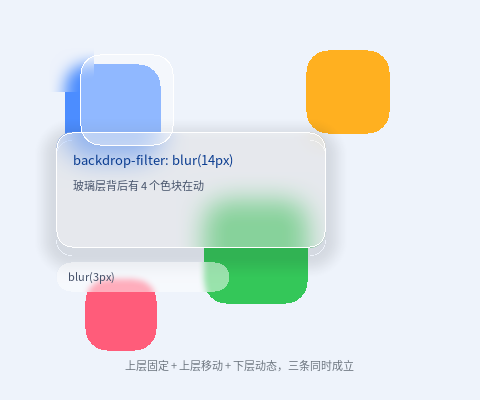
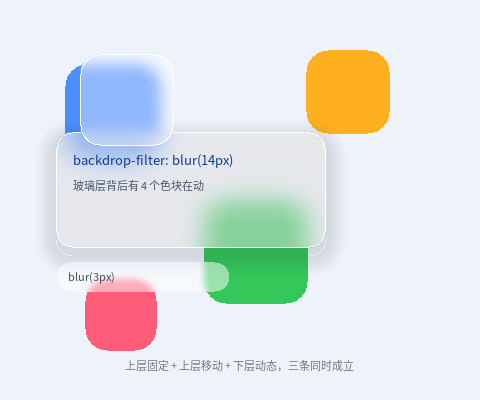
修：毛玻璃的采样区没跟着 transform 走（两条后端都错）
现象：带 `transform: translate()` 的玻璃层，糊的是它**没移动之前**那块地方，
画面里模糊内容和背后的物体对不上（example_15 的 #puck 最明显）。

根因两处，CPU 与 GL 各一：

- CPU `cpu_backdrop_blur`：`sx(self, elem_rect(self, rect))` —— `sx()` 内部
  已经调过一次 `elem_rect()`，等于把 transform: scale 算了两遍；而且这两个
  函数都只处理 elem scale 与 dpr，**绘制期平移（offset_x_fx/offset_y_fx）**
  一次都没算进去。
- GL `gl_backdrop_blur_round`：同样重复调用 `elem_rect_gl`，并同样漏掉
  绘制期平移（别的绘制入口是在 emit 顶点时加 `off_x_of/off_y_of`，
  毛玻璃自己 blit 一小块，得自己加）。

改法：
- CPU 新增 `dev_rect_of()` = `ql_rect_from_fx(sxf(self, elem_rect(self, rect)))`
  —— `elem_rect` 管 scale、`sxf` 管平移与 dpr，各一次。
- GL 用 `gsx(g, rect)`（含 scale+dpr）+ 手动补 `off_x_of/off_y_of`。

测试：test_blur 新增第 4 节"带 transform 的玻璃"——白条在 0..40 与 80..120，
玻璃从 20..80 平移到 60..100，断言玻璃内（62..98）有中间色、原位置（42..58）
一个都没有，CPU 与 GPU 各一遍。这条断言在修复前会失败（正好反过来）。

顺带：更新 example_15 的截图与文档（QLUI API 手册、CSS3 覆盖与裁剪、
15_backdrop 教程）里"跟着 transform 走"的说明。

Changed region(s): [[0.125, 0.12, 0.375, 0.33]]

diff --git a/doc/html/manual/ui/QLUI API手册.html b/doc/html/manual/ui/QLUI API手册.html
@@ -1231,7 +1231,9 @@ z-index 相同则保持文档顺序（稳定）。</p>
 <li><strong>自己的 <code>background-color</code> 要带 alpha</strong>，否则糊完又被不透明底色盖住，看不出效果；</li>
 <li><strong>只影响自己的矩形</strong>（含 <code>border-radius</code> 的圆角），不会把外面的颜色吸进来，
    也不会把模糊漏到圆角缺口外面（见下面的"圆角裁剪"）；</li>
-<li>它跟着 <code>transform</code> 一起走——毛玻璃卡片滑动时，糊的是它当前盖住的那块内容；</li>
+<li>它跟着 <code>transform: translate()</code> 一起走——毛玻璃卡片滑动时，糊的是它<strong>现在</strong>
+   盖住的那块内容（两条后端都在采样矩形里补了绘制期平移；早先漏了这一步，
+   表现是"移动后的玻璃糊的是它原来那块地方"）；</li>
 <li><strong>下层在动就跟着动</strong>：模糊的是"这一帧刚画好的像素"，所以 <code>@keyframes</code> 驱动的
    背景变化会被实时反映，不需要额外机制（例程 <code>15_backdrop</code> 演示这一点）；</li>
 <li>每帧多一次 draw call；CPU 后端代价约等于"半次整屏重绘"（见 <code>bench.md</code>）。</li>

diff --git a/doc/html/manual/ui/CSS3覆盖与裁剪.html b/doc/html/manual/ui/CSS3覆盖与裁剪.html
@@ -1771,7 +1771,7 @@ main img.shot { max-width: 100%; }
 <td><code>backdrop-filter: blur()</code></td>
 <td>✅</td>
 <td>R</td>
-<td>毛玻璃；读"已画好的内容"就地模糊，有独立小着色器；结果裁进 <code>border-radius</code>；下层动画实时跟随</td>
+<td>毛玻璃；读"已画好的内容"就地模糊，有独立小着色器；结果裁进 <code>border-radius</code>；自己带 <code>transform: translate</code> 时采样区跟着走；下层动画实时跟随</td>
 </tr>
 <tr>
 <td><code>filter: blur()</code></td>

diff --git a/doc/html/tutorial/15_backdrop.html b/doc/html/tutorial/15_backdrop.html
@@ -246,7 +246,7 @@ main img.shot { max-width: 100%; }
 </tr>
 <tr>
 <td><code>#puck</code>（自己也在动）</td>
-<td>模糊区域跟着玻璃层自己走</td>
+<td>模糊区域跟着玻璃层自己走（<code>transform</code> 平移会算进采样矩形）</td>
 </tr>
 <tr>
 <td><code>#pill</code>（<code>blur(3px)</code>）</td>

diff --git a/test/web/test_blur.c b/test/web/test_blur.c
@@ -7,7 +7,9 @@
  *   2. **硬边被糊成渐变**：模糊区域里出现一长串"中间色"像素；
  *   3. **区域外一个像素都不动**（模糊只在元素自己的矩形里发生）；
  *   4. 元素自己的背景照常叠在模糊结果之上（半透明"玻璃"）；
- *   5. GPU 必须和 CPU 一样真的糊（用同一组性质断言，不做逐像素比较）。
+ *   5. GPU 必须和 CPU 一样真的糊（用同一组性质断言，不做逐像素比较）；
+ *   6. **跟随 transform**：玻璃自己平移之后，糊的是它现在盖住的那块内容，
+ *      而不是它"没动之前"那块地方（这条曾经是错的，两条后端都错）。
  */
 #include <stdio.h>
 #include <stdlib.h>
@@ -156,5 +158,95 @@ QL_TEST_BEGIN("test_blur")
 #endif
 
     ql_ui_free(ui);
+
+    /*
+     * ---------- 4. 带 transform 的玻璃：糊的位置必须跟着元素走 ----------
+     *
+     * 场景：白条 0..40 与 80..120，中间是深色；玻璃在 20..80，动画平移 +40px
+     * 之后落在 60..100。
+     *
+     *   正确：玻璃里只有 x=80 那条硬边被糊开 → 62..98 有中间色，42..58 没有；
+     *   错误（按未平移的 20..80 采样）：玻璃里糊的是 x=40 那条边 → 正好反过来。
+     */
+    {
+        const char *html = "<div id=r><div id=w></div><div id=w2></div>"
+                           "<div id=g></div></div>";
+        const char *css =
+            "#r { width: 120px; height: 80px; background-color: #101010 }"
+            "#w { position: absolute; left: 0px; top: 0px; width: 40px;"
+            "     height: 80px; background-color: #FFFFFF }"
+            "#w2 { position: absolute; left: 80px; top: 0px; width: 40px;"
+            "      height: 80px; background-color: #FFFFFF }"
+            "#g { position: absolute; left: 20px; top: 20px; width: 60px;"
+            "     height: 40px; background-color: rgba(255,255,255,0.08);"
+            "     backdrop-filter: blur(6px);"
+            "     animation: mv 1000ms linear infinite alternate }"
+            "@keyframes mv { from { transform: translate(0px, 0px); }"
+            "                to   { transform: translate(40px, 0px); } }";
+        QLUIDoc *doc = ql_ui_load_text(html, css);
+        QL_CHECK(doc != NULL);
+        if (doc != NULL) {
+            QLUIRoot *tu = ql_ui_build(doc);
+            QL_CHECK(tu != NULL);
+            if (tu != NULL) {
+                ql_ui_layout(tu, W, H);
+                (void)ql_ui_anim_tick(tu, 0);       /* 第一帧建立动画起点 */
+                (void)ql_ui_anim_tick(tu, 1000);    /* 走完：平移 40px */
+
+                QLUINodeRT *gn = NULL;
+                for (uint16_t i = 0; i < tu->node_count; i++)
+                    if (ql_ui_node_style(&tu->nodes[i])->backdrop_blur > 0)
+                        gn = &tu->nodes[i];
+                QL_CHECK(gn != NULL);
+                if (gn != NULL) {
+                    QL_CHECK_EQ(ql_ui_node_style(gn)->tf_x, 40);
+
+                    const int my = 40;
+                    QLDispDriver *disp = ql_disp_mem_create(W, H, QL_COLOR_ARGB8888);
+                    QLCanvas canvas;
+                    QL_CHECK_EQ(ql_canvas_from_disp(&canvas, disp), QL_OK);
+                    ql_disp_mem_clear(disp, ROOT_BG);
+                    ql_ui_render_canvas(tu, &canvas);
+
+                    /* 平移后的玻璃占 60..100：里面只有 x=80 那条边 */
+                    const int inside = ramp_count_cpu(disp, my, 62, 98);
+                    const int left = ramp_count_cpu(disp, my, 42, 58);
+                    printf("  平移后 CPU：玻璃内中间色 %d，原位置(42..58) %d\n",
+                           inside, left);
+                    QL_CHECK(inside >= 6);
+                    QL_CHECK_EQ(left, 0);
+
+#if defined(QLGL_ENABLE_GL)
+                    QLGfxGL *gfx = ql_gfx_gl_create("blur-mv", W, H,
+                                                    QL_GFX_GL_OFFSCREEN);
+                    if (gfx == NULL) {
+                        printf("  [SKIP] GL：无法创建上下文\n");
+                    } else {
+                        ql_gfx_gl_begin(gfx, ROOT_BG);
+                        ql_ui_render(tu, ql_gfx_gl_draw(gfx));
+                        ql_gfx_gl_end(gfx);
+                        ql_gfx_gl_finish(gfx);
+                        uint8_t *rgba = (uint8_t *)ql_mem_calloc(1, (size_t)W * H * 4u);
+                        QL_CHECK(rgba != NULL);
+                        if (rgba != NULL) {
+                            QL_CHECK_EQ(ql_gfx_gl_read_pixels(gfx, rgba, W * 4), QL_OK);
+                            const int gin = ramp_count_rgba(rgba, W * 4, my, 62, 98);
+                            const int gleft = ramp_count_rgba(rgba, W * 4, my, 42, 58);
+                            printf("  平移后 GPU：玻璃内中间色 %d，原位置(42..58) %d\n",
+                                   gin, gleft);
+                            QL_CHECK(gin >= 6);
+                            QL_CHECK_EQ(gleft, 0);
+                            ql_mem_free(rgba);
+                        }
+                        ql_gfx_gl_destroy(gfx);
+                    }
+#endif
+                    ql_disp_mem_destroy(disp);
+                }
+                ql_ui_free(tu);
+            }
+            ql_ui_doc_free(doc);
+        }
+    }
 
 QL_TEST_END()

diff --git a/src/draw/qldraw2d.c b/src/draw/qldraw2d.c
@@ -381,6 +381,19 @@ static QLRect shift_rect_rounded(QLDraw2D *self, QLRect r)
     return r;
 }
 
+/*
+ * CSS px 矩形 → 设备像素整数矩形：`elem_rect` 处理 transform: scale，
+ * `sxf` 处理**绘制期平移**（transform: translate）与 dpr。
+ *
+ * 顺序不能反、也不能重复：`sx()` 里已经含一次 elem_rect，早先写成
+ * `sx(self, elem_rect(self, rect))` 是**缩放算了两遍**，而且两份都没算平移 ——
+ * 表现就是"带 transform 的毛玻璃糊的是它没移动之前那块地方"。
+ */
+static QLRect dev_rect_of(QLDraw2D *self, QLRect r)
+{
+    return ql_rect_from_fx(sxf(self, elem_rect(self, r)));
+}
+
 /* 毛玻璃：把设备像素区域里已有的内容就地模糊（CPU 侧的"背后"就是画布本身） */
 static void cpu_backdrop_blur(QLDraw2D *self, QLRect rect, int sigma)
 {
@@ -388,7 +401,7 @@ static void cpu_backdrop_blur(QLDraw2D *self, QLRect rect, int sigma)
     if (ctx->canvas == NULL)
         return;
 
-    QLRect dev = sx(self, elem_rect(self, rect));
+    QLRect dev = dev_rect_of(self, rect);
     ql_coord_t fx = (self->scale_fx > 0) ? self->scale_fx : QL_SCALE_ONE;
     int r = (int)(((int64_t)sigma * fx) / QL_SCALE_ONE);
     if (r < 1)
@@ -404,7 +417,7 @@ static void cpu_backdrop_blur_round(QLDraw2D *self, QLRect rect, int sigma,
     if (ctx->canvas == NULL)
         return;
 
-    QLRect dev = sx(self, elem_rect(self, rect));
+    QLRect dev = dev_rect_of(self, rect);
     ql_coord_t fx = (self->scale_fx > 0) ? self->scale_fx : QL_SCALE_ONE;
     int r = (int)(((int64_t)sigma * fx) / QL_SCALE_ONE);
     if (r < 1)

diff --git a/src/port/qlgfx_gl.c b/src/port/qlgfx_gl.c
@@ -1275,7 +1275,16 @@ static void gl_backdrop_blur_round(QLDraw2D *self, QLRect rect, int sigma,
     if (g == NULL || g->blur_prog == 0)
         return;
 
-    QLRect dev = gsx(g, elem_rect_gl(g, rect));
+    /*
+     * CSS px → 设备像素：`gsx` 已经含一次 elem scale（transform: scale）和 dpr，
+     * 这里再补上**绘制期平移**（transform: translate）—— 别的绘制入口是在
+     * emit 顶点时加 `off_x_of/off_y_of`，毛玻璃走的是"自己 blit 一小块"，得自己加。
+     * 少了这一步，带 transform 的玻璃糊的是它没移动之前那块地方。
+     */
+    const float ox = off_x_of(g), oy = off_y_of(g);
+    QLRect dev = gsx(g, rect);
+    dev.x += (ql_coord_t)(ox < 0.0f ? ox - 0.5f : ox + 0.5f);
+    dev.y += (ql_coord_t)(oy < 0.0f ? oy - 0.5f : oy + 0.5f);
     dev = ql_rect_intersect(dev, ql_rect_make(0, 0, g->width, g->height));
     if (ql_rect_is_empty(dev))
         return;

diff --git a/doc/手册/ui/QLUI API手册.md b/doc/手册/ui/QLUI API手册.md
@@ -590,7 +590,9 @@ static void on_anim_end(QLUIRoot *ui, QLUINodeRT *node, QLUIAnimEndKind kind, vo
 2. **自己的 `background-color` 要带 alpha**，否则糊完又被不透明底色盖住，看不出效果；
 3. **只影响自己的矩形**（含 `border-radius` 的圆角），不会把外面的颜色吸进来，
    也不会把模糊漏到圆角缺口外面（见下面的"圆角裁剪"）；
-4. 它跟着 `transform` 一起走——毛玻璃卡片滑动时，糊的是它当前盖住的那块内容；
+4. 它跟着 `transform: translate()` 一起走——毛玻璃卡片滑动时，糊的是它**现在**
+   盖住的那块内容（两条后端都在采样矩形里补了绘制期平移；早先漏了这一步，
+   表现是"移动后的玻璃糊的是它原来那块地方"）；
 5. **下层在动就跟着动**：模糊的是"这一帧刚画好的像素"，所以 `@keyframes` 驱动的
    背景变化会被实时反映，不需要额外机制（例程 `15_backdrop` 演示这一点）；
 6. 每帧多一次 draw call；CPU 后端代价约等于"半次整屏重绘"（见 `bench.md`）。

diff --git a/doc/手册/ui/CSS3覆盖与裁剪.md b/doc/手册/ui/CSS3覆盖与裁剪.md
@@ -382,7 +382,7 @@
 
 | 属性 | 状态 | 原因 | 备注 |
 |---|---|---|---|
-| `backdrop-filter: blur()` | ✅ | R | 毛玻璃；读"已画好的内容"就地模糊，有独立小着色器；结果裁进 `border-radius`；下层动画实时跟随 |
+| `backdrop-filter: blur()` | ✅ | R | 毛玻璃；读"已画好的内容"就地模糊，有独立小着色器；结果裁进 `border-radius`；自己带 `transform: translate` 时采样区跟着走；下层动画实时跟随 |
 | `filter: blur()` | ⏳ | O | 要"元素自己离屏后再模糊"，与 `backdrop-filter` 不是一回事 |
 | `filter: brightness/contrast/saturate/grayscale/sepia/invert/hue-rotate/drop-shadow` | ⏳ | O | 每个都要 CPU + GL 两份实现 |
 | `clip-path: circle()` | ✅ | R | 子树级圆形遮罩；CPU 与 GPU 各一份 |

diff --git a/doc/tutorial/15_backdrop.md b/doc/tutorial/15_backdrop.md
@@ -33,7 +33,7 @@
 | 元素 | 验证什么 |
 |---|---|
 | `#card`（固定） | 色块从它底下穿过时，模糊内容跟着变 —— **实时跟随** |
-| `#puck`（自己也在动） | 模糊区域跟着玻璃层自己走 |
+| `#puck`（自己也在动） | 模糊区域跟着玻璃层自己走（`transform` 平移会算进采样矩形） |
 | `#pill`（`blur(3px)`） | 小半径与 `blur(14px)` 的观感差别 |
 
 ## 2. 三个必踩的坑
